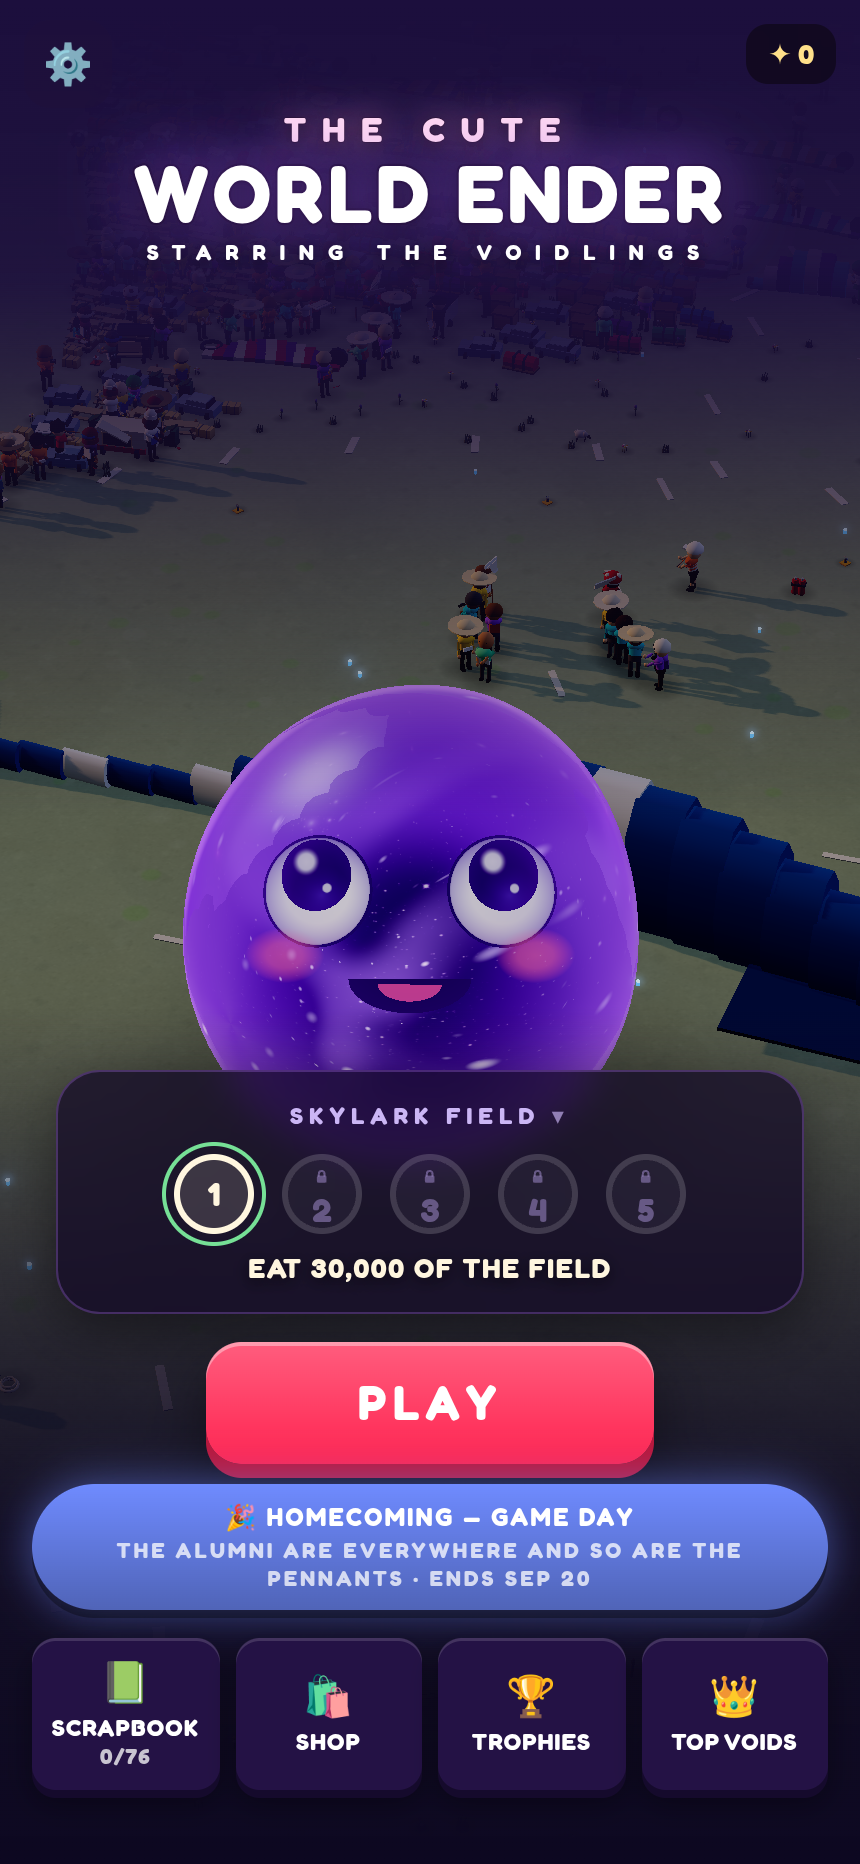
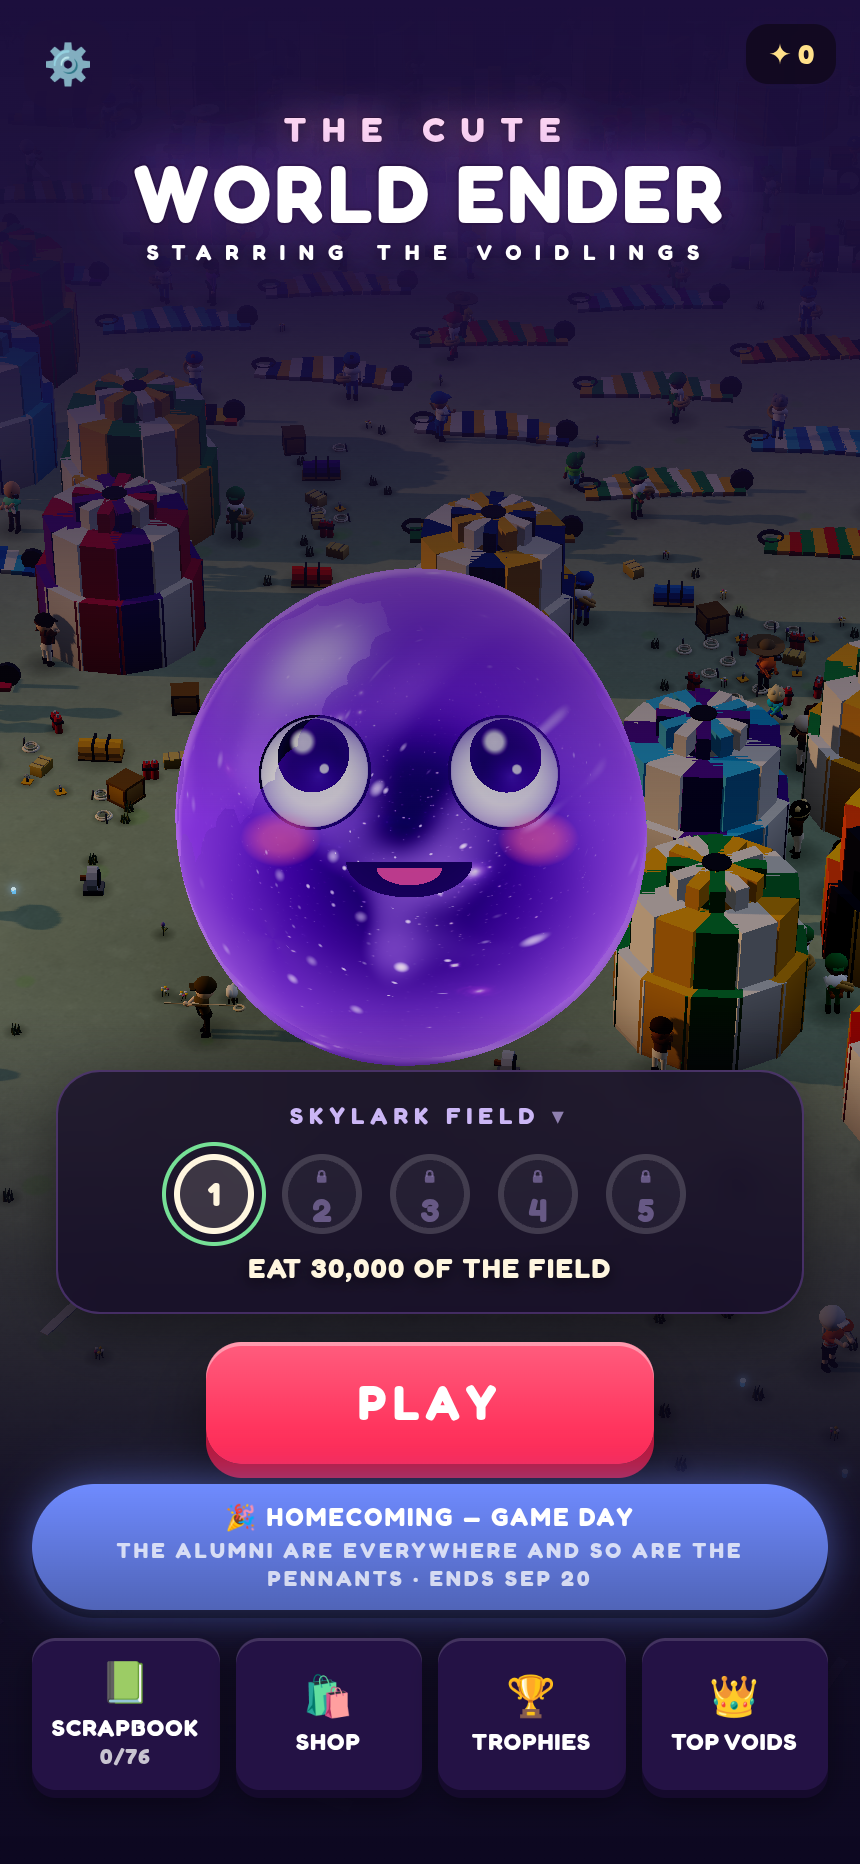
diorama: skylark aims at its launch field — 29.7% to 42.0%
COPY.hero is the FINALE — what a match builds toward — and on four worlds it
happens to stand in a dense district, so aiming the menu at it frames a place. On
skylark it does not: the whale lies in her own 0.6-density circle by authorial
intent, and the diorama frame there was an empty green field.

THE NUMBER THAT SETTLES IT, AND THE ONE I SHOULD HAVE TAKEN FIRST: skylark's frame
measures 34.4% world with the hero DELETED ENTIRELY, against qa/_dioful.mjs's 35%
floor. The ceiling is below the bar, so no hero placement can fix it — and I spent
a whole design pass asking for a lateral offset before anyone measured that
ceiling. On a fullness failure, measure the frame with the hero removed FIRST; if
that is under the floor, the subject is the problem and moving the character is
wasted work. Written into the code beside the table so it is not re-learned.

So the diorama aims at the block skylark's own file calls its densest — THE LAUNCH
FIELD (skylark.ts:165, density 1.5).

  MEASURED          before    after
  fullness (area)    29.7%     42.0%   against a 35% floor
  spread              60%       100%   every cell of the 48-cell grid has a prop
  props in frame       620       264   fewer, and distributed instead of on the horizon
  occlusion             0%         0%   unchanged
  hero                239 px    244 px

The count falling while the picture improves is the whole point: 620 props packed
[…]

diff --git a/artifacts/3d-game/src/prototype3d.ts b/artifacts/3d-game/src/prototype3d.ts
@@ -902,8 +902,48 @@ interface MenuStage {
 // one is made on framing alone.
 const STAGE_SAMPLES = 24;   // azimuths tried, 15° apart
 
+/** ── THE DIORAMA'S OWN AIM, WHERE THE LANDMARK IS NOT THE SUBJECT ───────────
+ *
+ *  `COPY.hero` is the FINALE — what a match builds toward — and on four worlds it
+ *  happens to stand in a dense district, so aiming the menu at it frames a place.
+ *  On SKYLARK it does not: the whale lies in her own 0.6-density circle by
+ *  authorial intent, and the diorama frame there is an empty green field.
+ *
+ *  THE NUMBER THAT SETTLES IT, and the one I should have taken first: skylark's
+ *  frame measures **34.4% world with the hero DELETED ENTIRELY**, against
+ *  qa/_dioful.mjs's 35% floor. The ceiling is below the bar. So no hero placement
+ *  can fix it — and I spent a design pass asking for a lateral offset before
+ *  anyone measured that ceiling. On a fullness failure, measure the frame with the
+ *  hero removed FIRST; if that is under the floor, the subject is the problem and
+ *  moving the character is wasted work.
+ *
+ *  So the diorama aims at the block skylark's own file calls its densest — THE
+ *  LAUNCH FIELD (skylark.ts:165, density 1.5). Measured 42.5% ± 0.2 over two
+ *  loads, a 7.5-point margin, and the frame comes out cheaper than the old aim.
+ *
+ *  POWDER IS DELIBERATELY NOT IN THIS TABLE. It fails the same way (28.3% with the
+ *  hero deleted) and the obvious fix does not work: aiming at its village centroid
+ *  puts the BELL TOWER — the village's actual landmark, island.ts:6005 — 3.2x
+ *  outside the frame, so the new aim has no subject either. It needs its own
+ *  search around the tower at local (36.96, 117.3), graded on BOTH _dioful >= 35
+ *  and _dioocc <= 5% across several scatter rolls, and it is not this change.
+ *
+ *  The azimuth is authored with the point because it was measured with it; the
+ *  24-azimuth search below is left alone. */
+const DIO_AIM: Partial<Record<WorldId, { x: number; z: number; az: number }>> = {
+  skylark: { x: 30, z: 30, az: 210 },   // THE LAUNCH FIELD — 42.5% against a 35 floor
+};
+
 function deriveStage(): MenuStage {
-  const aim = COPY.hero ? { x: COPY.hero[0], z: COPY.hero[1] }
+  // The override enters through the SAME variable the authored hero point does,
+  // so everything downstream — subjR, dist, lookY, the blockers traverse,
+  // blocksShot, the published `blocked`, the drift, stageCam, the hero's mark,
+  // the sun and the shadow box — runs unmodified on the new point. No shared
+  // constant is relaxed, and with DIORAMA false this function is byte-identical,
+  // which is what keeps qa/levels.mjs's hard gate on `blocked` untouched.
+  const ov = DIORAMA ? DIO_AIM[pickedWorld] : undefined;
+  const aim = ov ? { x: ov.x, z: ov.z }
+    : COPY.hero ? { x: COPY.hero[0], z: COPY.hero[1] }
     : { x: island.spawn.x, z: island.spawn.z };
   // one pass over the island; everything below works on this list
   const pts: { x: number; z: number; r: number }[] = [];
@@ -1019,6 +1059,10 @@ function deriveStage(): MenuStage {
   // function exists to avoid and it has shipped twice: a hand-typed table put
   // the camera behind a building, and an edibles-only lens test let a tree fill
   // the frame. A number nobody can read is a number nobody can hold.
+  // …and an authored aim carries its own azimuth, because the two were measured
+  // together. Taken here, AFTER the search, so `blocked` below is computed for the
+  // line actually used rather than for one the diorama then discards.
+  if (ov) bestAz = ov.az;
   const radB = bestAz * Math.PI / 180;
   const blocked = blocksShot(aim.x + Math.sin(radB) * dist, aim.z + Math.cos(radB) * dist, h, lookY);
   return { x: aim.x, z: aim.z, az: bestAz, amp: 7, period: 28, dist, h, lookY, blocked };
@@ -3216,7 +3260,16 @@ _dbg.__menuOptim = (on: boolean): boolean => (menuOptim = !!on);
  *  measured, single runs of ONE build came back 233, 269 and 274 calls a frame.
  *  The A and the B have to be the same page. Re-enters the menu so the camera,
  *  the hero's mark and the shadow pin all take. */
-_dbg.__dio = (on: boolean): boolean => { DIORAMA = !!on; if (menuMode) enterMenu(); return DIORAMA; };
+_dbg.__dio = (on: boolean): boolean => {
+  DIORAMA = !!on;
+  // AND THE CACHED STAGE GOES WITH IT. menuStage is computed once per world per
+  // session, and DIO_AIM is read inside deriveStage — so without this a runtime
+  // flip keeps the aim it was first built with and qa/_diocost.mjs's A/B would
+  // silently measure the same camera twice on any world in the table.
+  menuStage = null;
+  if (menuMode) enterMenu();
+  return DIORAMA;
+};
 _dbg.__menuState = () => {
   const ms = menuStage ?? { az: 0, amp: 0, period: 1, x: 0, z: 0, dist: 0, h: 0, lookY: 0, blocked: -1 };
   return {
